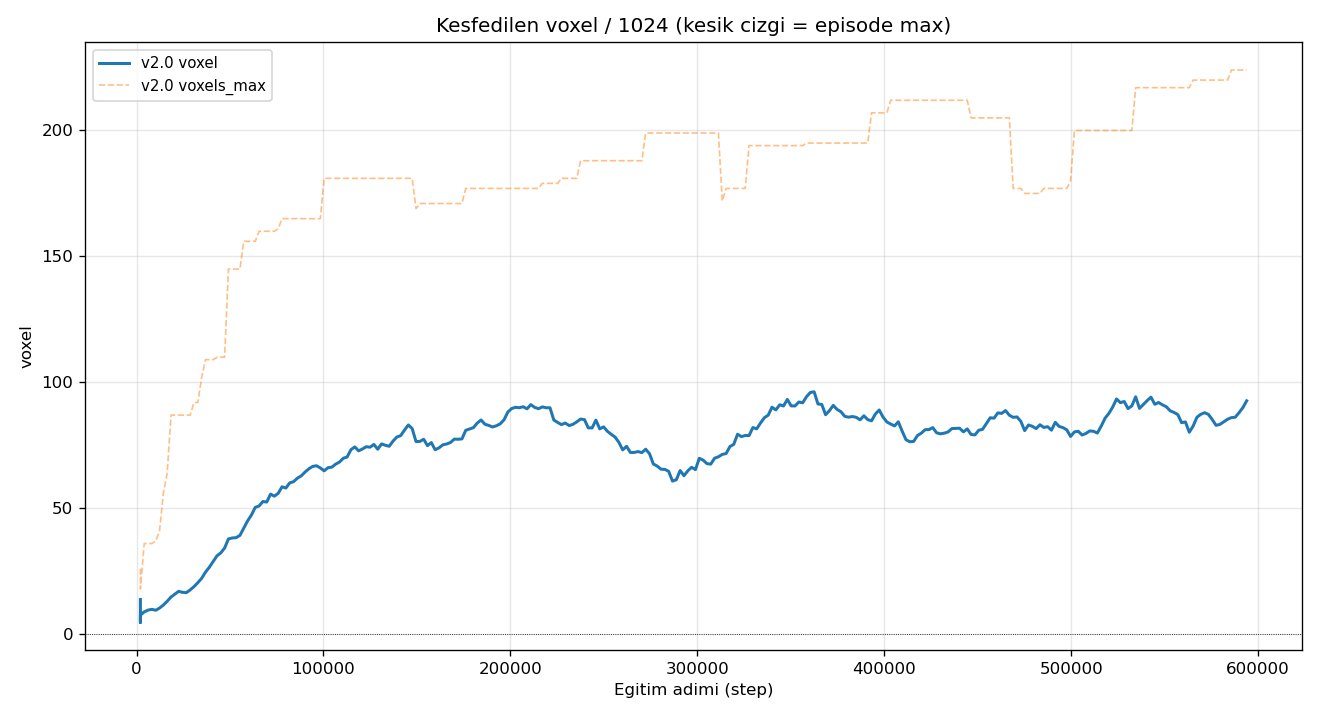
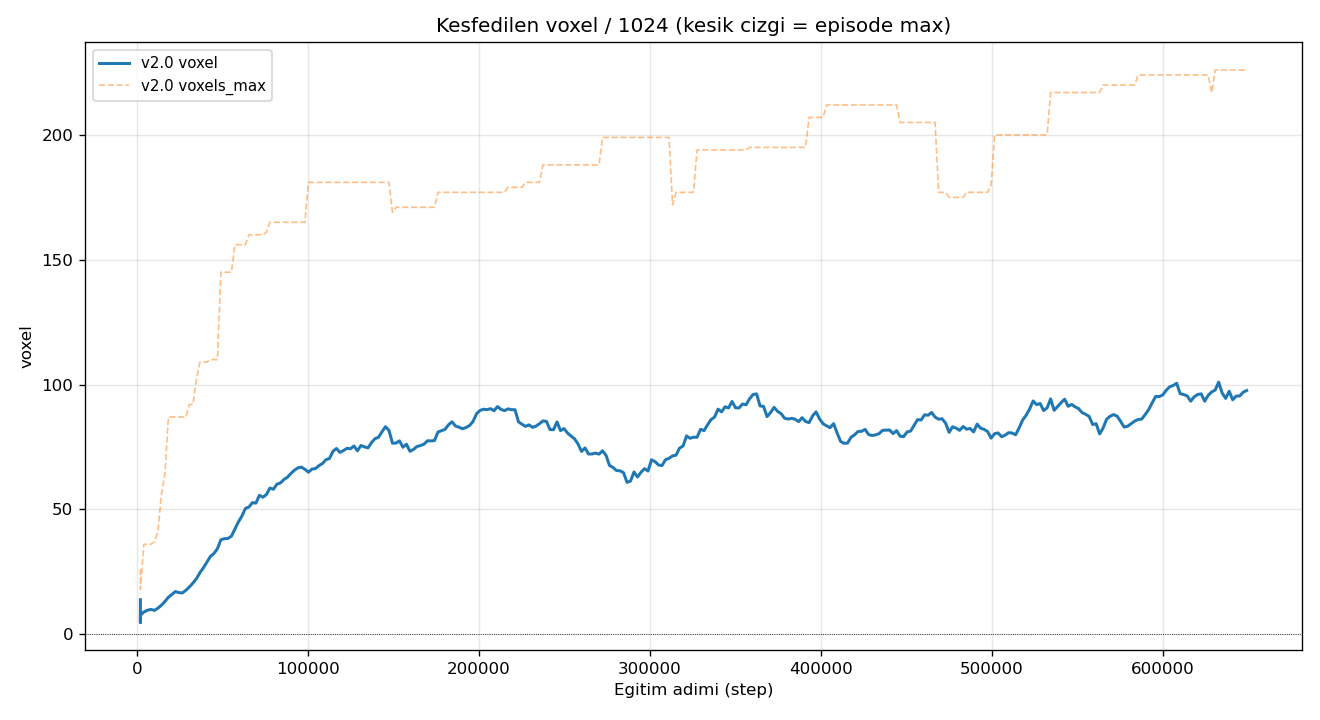
auto(operator): refresh report @647k steps (healthy, reward 105.7, peak 108.9)

diff --git a/docs/REPORT.md b/docs/REPORT.md
@@ -6,7 +6,7 @@ Otomatik uretildi (`scripts/report.py`). Operator agent gunceller.
 
 | Versiyon | Son step | Son reward | Peak reward | Peak voxel (max) | Peak oda (max) |
 |---|---|---|---|---|---|
-| v2.0 | 593,920 | +99.9 | +104.1 | 224/1024 | 6/6 |
+| v2.0 | 649,216 | +106.1 | +108.9 | 226/1024 | 6/6 |
 
 ## Versiyon / Mudahale Gunlugu
 
